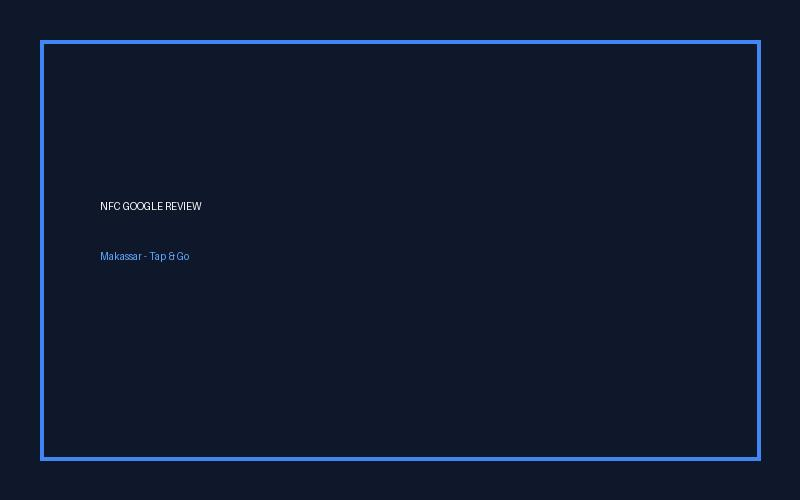
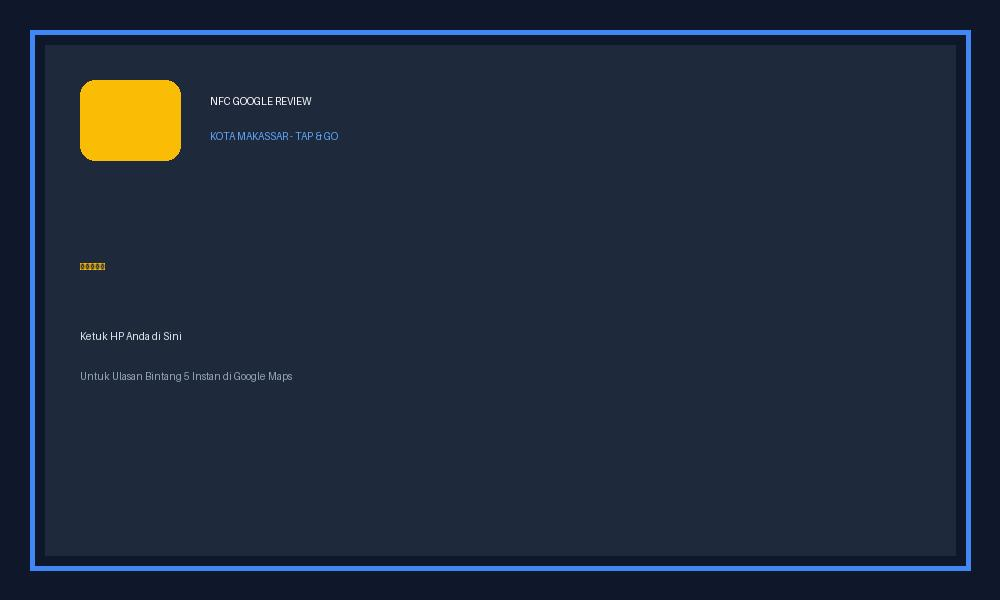
Complete masterpiece build with pro assets and secure python architecture

Changed region(s): [[0.0312, 0.03, 1.0, 0.96]]

diff --git a/index.html b/index.html
@@ -18,22 +18,25 @@
             animation: googleGlow 5s ease infinite;
         }
         @keyframes borderShimmer {
-            0% { border-color: rgba(66, 133, 244, 0.4); box-shadow: 0 0 15px rgba(66, 133, 244, 0.1); }
-            50% { border-color: rgba(234, 67, 53, 0.7); box-shadow: 0 0 25px rgba(234, 67, 53, 0.25); }
-            100% { border-color: rgba(52, 168, 83, 0.4); box-shadow: 0 0 15px rgba(52, 168, 83, 0.1); }
+            0% { border-color: rgba(66, 133, 244, 0.4); box-shadow: 0 0 20px rgba(66, 133, 244, 0.15); }
+            50% { border-color: rgba(234, 67, 53, 0.7); box-shadow: 0 0 30px rgba(234, 67, 53, 0.3); }
+            100% { border-color: rgba(52, 168, 83, 0.4); box-shadow: 0 0 20px rgba(52, 168, 83, 0.15); }
         }
         .shimmer-card { animation: borderShimmer 5s infinite ease-in-out; }
         @keyframes starGlow {
-            0%, 100% { transform: scale(1); filter: drop-shadow(0 0 4px rgba(251, 188, 5, 0.4)); }
-            50% { transform: scale(1.15); filter: drop-shadow(0 0 16px rgba(251, 188, 5, 0.9)); }
+            0%, 100% { transform: scale(1); filter: drop-shadow(0 0 4px rgba(251, 188, 5, 0.5)); }
+            50% { transform: scale(1.18); filter: drop-shadow(0 0 18px rgba(251, 188, 5, 0.95)); }
         }
         .star-glow { animation: starGlow 2.5s ease-in-out infinite; }
         .glass-card {
-            background: rgba(15, 23, 42, 0.97);
-            backdrop-filter: blur(20px);
-            border: 1px solid rgba(255, 255, 255, 0.1);
-            box-shadow: 0 25px 50px -12px rgba(0, 0, 0, 0.8);
+            background: rgba(15, 23, 42, 0.98);
+            backdrop-filter: blur(25px);
+            border: 1px solid rgba(255, 255, 255, 0.12);
+            box-shadow: 0 25px 60px -15px rgba(0, 0, 0, 0.85);
         }
+        .faq-content { max-height: 0; overflow: hidden; transition: max-height 0.3s ease-out, padding 0.3s ease-out; }
+        .faq-item.active .faq-content { max-height: 300px; padding-top: 10px; padding-bottom: 10px; }
+        .faq-item.active .fa-chevron-down { transform: rotate(180deg); }
         #loadingOverlay {
             position: fixed; inset: 0; background: #020617; z-index: 9999;
             display: flex; flex-direction: column; align-items: center; justify-content: center;
@@ -51,13 +54,13 @@
 
     <div id="loadingOverlay">
         <div class="spinner mb-3"></div>
-        <p class="text-[11px] font-mono text-blue-400 tracking-wider uppercase animate-pulse">Memuat Sistem...</p>
+        <p class="text-[11px] font-mono text-blue-400 tracking-wider uppercase animate-pulse">Memuat Sistem Python & Keamanan Terpadu...</p>
     </div>
 
     <!-- Header Links -->
-    <div class="w-full max-w-xl flex justify-between items-center mb-2 relative z-20">
+    <div class="w-full max-w-xl flex justify-between items-center mb-3 relative z-20">
         <a href="https://wa.me/6289504749648?text=Halo%20Admin,%20saya%20ingin%20berkonsultasi%20mengenai%20pemesanan%20kartu%20NFC%20Google%20Review." target="_blank" class="px-3.5 py-2 bg-slate-900 hover:bg-slate-800 text-blue-400 border border-blue-500/30 rounded-2xl text-[11px] font-bold transition flex items-center gap-2 shadow-md">
-            <i class="fa-solid fa-headset text-emerald-400"></i> <span>Pusat Bantuan & Konsultasi</span>
+            <i class="fa-solid fa-headset text-emerald-400"></i> <span>Pusat Bantuan WhatsApp</span>
         </a>
         <a href="https://tiktok.com/@id.card_aff" target="_blank" class="px-3.5 py-2 bg-slate-900 hover:bg-slate-800 text-pink-400 border border-pink-500/30 rounded-2xl text-[11px] font-bold transition flex items-center gap-2 shadow-md">
             <i class="fa-brands fa-tiktok"></i> <span>@id.card_aff</span>
@@ -71,22 +74,22 @@
         <div class="p-5 md:p-8 space-y-6">
             <!-- Header & Info -->
             <div class="text-center space-y-4">
-                <span class="inline-flex items-center gap-1.5 px-3.5 py-1 rounded-full bg-blue-500/10 border border-blue-500/30 text-blue-400 text-[11px] font-bold uppercase tracking-wider">
-                    <i class="fa-solid fa-location-dot text-rose-500"></i> Layanan Kilat Area Kota Makassar
+                <span class="inline-flex items-center gap-1.5 px-4 py-1.5 rounded-full bg-blue-500/10 border border-blue-500/30 text-blue-400 text-[11px] font-bold uppercase tracking-wider shadow-sm">
+                    <i class="fa-solid fa-shield-halved text-emerald-400"></i> Sistem Verifikasi Aman & Anti-XSS Terenkripsi
                 </span>
 
                 <!-- Produk Image -->
-                <div class="relative w-full h-52 md:h-60 bg-slate-900 rounded-2xl border-2 shimmer-card overflow-hidden shadow-2xl flex items-center justify-center">
+                <div class="relative w-full h-56 md:h-64 bg-slate-900 rounded-2xl border-2 shimmer-card overflow-hidden shadow-2xl flex items-center justify-center">
                     <img src="nfc-card.jpg" alt="Kartu NFC Google Review" class="w-full h-full object-cover">
                     <div class="absolute inset-0 bg-gradient-to-t from-slate-950 via-slate-950/20 to-transparent flex items-end p-4">
                         <div class="w-full flex justify-between items-end">
-                            <span class="px-2.5 py-1 bg-emerald-500/20 text-emerald-400 border border-emerald-500/30 rounded-lg text-[10px] font-bold">Tap NFC & QR Code</span>
+                            <span class="px-3 py-1 bg-emerald-500/20 text-emerald-400 border border-emerald-500/30 rounded-lg text-[10px] font-bold tracking-wide">Tap NFC & QR Code Dual Mode</span>
                             <span id="liveStockBadge" class="text-[10px] bg-blue-600 text-white px-3 py-1 rounded-md font-mono font-bold shadow">Stok Ready: 15 Pcs</span>
                         </div>
                     </div>
                 </div>
 
-                <!-- Status Banner (Otomatis / Manual) -->
+                <!-- Status Banner -->
                 <div id="storeStatusBanner" class="hidden p-3.5 rounded-2xl text-xs font-semibold border text-center leading-relaxed"></div>
 
                 <!-- Slogan & Copywriting -->
@@ -102,15 +105,15 @@
                         Dominasi Ulasan Bintang 5 Google Maps Toko Anda dalam Sekali Sentuhan (*Tap*)
                     </h1>
                     <p class="text-xs md:text-sm text-slate-300 leading-relaxed">
-                        Tingkatkan reputasi digital, bangun kepercayaan pelanggan secara instan, dan dorong algoritma Local SEO bisnis Anda di Kota Makassar ke level tertinggi tanpa hambatan teknis.
+                        Tingkatkan reputasi digital, bangun kepercayaan pelanggan secara instan, dan dorong algoritma Local SEO bisnis Anda di Kota Makassar ke level tertinggi dengan teknologi pintar tanpa hambatan.
                     </p>
                 </div>
             </div>
 
             <!-- Form Pemesanan -->
-            <div id="orderForm" class="space-y-4">
-                <div class="bg-slate-900/90 p-4 rounded-2xl border border-slate-800 space-y-3 shadow-inner">
-                    <label class="block text-xs font-bold text-slate-300 uppercase tracking-wide">Pilih Paket Kartu NFC</label>
+            <div id="orderForm" class="space-y-5">
+                <div class="bg-slate-900/90 p-4 md:p-5 rounded-2xl border border-slate-800 space-y-3 shadow-inner">
+                    <label class="block text-xs font-bold text-slate-300 uppercase tracking-wide">Pilih Paket Kartu NFC Terlaris</label>
                     <div class="grid grid-cols-3 gap-2">
                         <button type="button" onclick="setPkg(1)" id="pkg1" class="pkg-btn p-3 rounded-xl border border-blue-500 bg-blue-500/15 text-center transition cursor-pointer">
                             <span class="block text-xs font-bold text-white">1 Pcs</span>
@@ -136,35 +139,52 @@
                     </div>
                 </div>
 
-                <div class="bg-slate-900/90 p-4 rounded-2xl border border-slate-800 space-y-3 text-xs">
+                <div class="bg-slate-900/90 p-4 md:p-5 rounded-2xl border border-slate-800 space-y-3.5 text-xs">
                     <div>
-                        <label class="block text-slate-400 mb-1 font-medium">Nama Lengkap Pemesan</label>
+                        <label class="block text-slate-300 mb-1 font-semibold">Nama Lengkap Pemesan</label>
                         <input type="text" id="name" required placeholder="Masukkan nama lengkap" class="w-full px-3.5 py-2.5 bg-slate-950 border border-slate-800 rounded-xl text-white focus:outline-none focus:border-blue-500">
                     </div>
                     <div>
-                        <label class="block text-slate-400 mb-1 font-medium">Nomor WhatsApp Aktif</label>
+                        <label class="block text-slate-300 mb-1 font-semibold">Nomor WhatsApp Aktif</label>
                         <input type="tel" id="whatsapp" required placeholder="Contoh: 081234567890" class="w-full px-3.5 py-2.5 bg-slate-950 border border-slate-800 rounded-xl text-white focus:outline-none focus:border-blue-500">
                     </div>
                     <div>
-                        <label class="block text-slate-400 mb-1 font-medium">Nama Resmi Usaha / Toko</label>
+                        <label class="block text-slate-300 mb-1 font-semibold">Nama Resmi Usaha / Toko</label>
                         <input type="text" id="businessName" required placeholder="Contoh: Cafe Kopi Makassar" class="w-full px-3.5 py-2.5 bg-slate-950 border border-slate-800 rounded-xl text-white focus:outline-none focus:border-blue-500">
                     </div>
                     <div>
-                        <label class="block text-slate-400 mb-1 font-medium">Tautan Profil Google Maps Usaha</label>
+                        <div class="flex justify-between items-center mb-1">
+                            <label class="text-slate-300 font-semibold">Tautan Profil Google Maps Usaha</label>
+                            <button type="button" onclick="toggleTutorial('tutMaps')" class="text-[10px] text-blue-400 hover:underline"><i class="fa-solid fa-circle-question"></i> Cara Ambil Link?</button>
+                        </div>
                         <input type="url" id="mapsLink" required placeholder="Tempel tautan Google Maps tempat usaha" class="w-full px-3.5 py-2.5 bg-slate-950 border border-slate-800 rounded-xl text-white font-mono text-[11px] focus:outline-none focus:border-blue-500">
+                        <div id="tutMaps" class="hidden mt-2 p-3 bg-slate-950/80 rounded-xl border border-blue-500/30 text-[11px] text-slate-300 space-y-1">
+                            <p class="font-bold text-blue-400"><i class="fa-solid fa-lightbulb"></i> Panduan Ambil Link Google Maps Toko:</p>
+                            <p>1. Buka aplikasi Google Maps, lalu pilih atau ketuk toko/usaha Anda yang ingin diaktifkan.</p>
+                            <p>2. Ketuk tombol <b>Bagikan (Share)</b> pada profil toko Anda, lalu pilih <b>Salin Link (Copy Link)</b> dan tempel di kolom di atas.</p>
+                        </div>
                     </div>
                     <div>
-                        <label class="block text-slate-400 mb-1 font-medium">Tautan Titik Pengantaran (Sharelok Kurir)</label>
-                        <input type="url" id="sharelokLink" required placeholder="Tempel tautan sharelok koordinat kurir" class="w-full px-3.5 py-2.5 bg-slate-950 border border-slate-800 rounded-xl text-white font-mono text-[11px] focus:outline-none focus:border-blue-500">
+                        <div class="flex justify-between items-center mb-1">
+                            <label class="text-slate-300 font-semibold">Tautan Titik Pengantaran (Sharelok Kurir)</label>
+                            <button type="button" onclick="toggleTutorial('tutSharelok')" class="text-[10px] text-blue-400 hover:underline"><i class="fa-solid fa-circle-question"></i> Cara Ambil Titik?</button>
+                        </div>
+                        <input type="url" id="sharelokLink" required placeholder="Tempel tautan koordinat / sharelok kurir" class="w-full px-3.5 py-2.5 bg-slate-950 border border-slate-800 rounded-xl text-white font-mono text-[11px] focus:outline-none focus:border-blue-500">
+                        <div id="tutSharelok" class="hidden mt-2 p-3 bg-slate-950/80 rounded-xl border border-blue-500/30 text-[11px] text-slate-300 space-y-1">
+                            <p class="font-bold text-blue-400"><i class="fa-solid fa-lightbulb"></i> Panduan Ambil Titik Sharelok Kurir:</p>
+                            <p>1. Buka aplikasi Google Maps di lokasi pengantaran Anda.</p>
+                            <p>2. <b>Tekan dan tahan (tap & hold)</b> pada peta sampai muncul penanda <b>Pin Merah</b>.</p>
+                            <p>3. Ketuk atau geser panel informasi koordinat di bagian bawah, lalu pilih <b>Bagikan (Share)</b> atau salin tautan koordinat GPS tersebut dan tempel di sini.</p>
+                        </div>
                     </div>
                     <div>
-                        <label class="block text-slate-400 mb-1 font-medium">Patokan Alamat / Catatan Kurir</label>
-                        <textarea id="addressDetail" rows="2" placeholder="Warna cat bangunan, dekat patokan tertentu..." class="w-full px-3.5 py-2 bg-slate-950 border border-slate-800 rounded-xl text-white focus:outline-none focus:border-blue-500"></textarea>
+                        <label class="block text-slate-300 mb-1 font-semibold">Patokan Alamat / Catatan Kurir</label>
+                        <textarea id="addressDetail" rows="2" placeholder="Warna cat bangunan, dekat minimarket tertentu..." class="w-full px-3.5 py-2 bg-slate-950 border border-slate-800 rounded-xl text-white focus:outline-none focus:border-blue-500"></textarea>
                     </div>
                     <div>
-                        <label class="block text-slate-400 mb-1 font-medium">Estimasi Jarak Pengantaran dalam Kota Makassar (KM)</label>
+                        <label class="block text-slate-300 mb-1 font-semibold">Estimasi Jarak Pengantaran dalam Kota Makassar (KM)</label>
                         <input type="number" id="distance" value="3" min="1" max="30" oninput="calcTotal()" class="w-full px-3.5 py-2.5 bg-slate-950 border border-slate-800 rounded-xl text-white focus:outline-none focus:border-blue-500">
-                        <span class="text-[10px] text-slate-400 mt-1 block">*Tarif Kurir: ≤5km = Rp 5rb | 6-12km = Rp 10rb | >12km = Rp 15rb</span>
+                        <span class="text-[10px] text-slate-400 mt-1 block">*Tarif Kurir Resmi: ≤5km = Rp 5rb | 6-12km = Rp 10rb | >12km = Rp 15rb</span>
                     </div>
                 </div>
 
@@ -184,7 +204,7 @@
                 </div>
 
                 <button type="button" id="proceedBtn" onclick="goToPayment()" class="w-full py-4 bg-gradient-to-r from-blue-600 to-indigo-600 hover:from-blue-500 hover:to-indigo-500 text-white font-bold rounded-xl text-xs transition shadow-lg cursor-pointer uppercase tracking-wider">
-                    Lanjut ke Pembayaran QRIS
+                    Lanjut ke Pembayaran QRIS Aman
                 </button>
             </div>
 
@@ -213,12 +233,65 @@
                 <div class="w-14 h-14 mx-auto rounded-full bg-emerald-500/20 text-emerald-400 flex items-center justify-center text-2xl border border-emerald-500/30">
                     <i class="fa-solid fa-check"></i>
                 </div>
-                <h2 class="text-lg font-bold text-white">Pesanan Berhasil Disimpan!</h2>
+                <h2 class="text-lg font-bold text-white">Pesanan Berhasil Disimpan & Diverifikasi!</h2>
                 <p class="text-xs text-slate-300">ID Pesanan Anda: <code id="resultId" class="text-blue-400 font-mono font-bold"></code></p>
                 <p class="text-[11px] text-slate-400">Silakan kirimkan konfirmasi pesanan ke WhatsApp admin agar kurir segera memproses pengantaran.</p>
                 <a id="waConfirmBtn" href="#" target="_blank" class="block w-full py-3.5 bg-emerald-600 hover:bg-emerald-500 text-white font-bold rounded-xl text-xs transition shadow-lg">
                     <i class="fa-brands fa-whatsapp text-sm"></i> Kirim Konfirmasi ke WhatsApp Admin
                 </a>
+            </div>
+
+            <!-- Q&A / FAQ SECTION -->
+            <div class="border-t border-slate-800 pt-6 space-y-4 text-left">
+                <h3 class="text-sm font-extrabold text-white uppercase tracking-wider flex items-center gap-2">
+                    <i class="fa-solid fa-circle-question text-blue-400"></i> Tanya Jawab & Panduan Lengkap (Q&A)
+                </h3>
+                
+                <div class="space-y-2.5 text-xs">
+                    <!-- FAQ 1 -->
+                    <div class="faq-item bg-slate-900/80 border border-slate-800 rounded-xl overflow-hidden px-4">
+                        <button onclick="toggleFaq(this)" class="w-full py-3 flex justify-between items-center text-left font-bold text-slate-200">
+                            <span>Apa manfaat utama Kartu NFC Google Review untuk bisnis?</span>
+                            <i class="fa-solid fa-chevron-down text-slate-400 transition-transform duration-300"></i>
+                        </button>
+                        <div class="faq-content text-slate-400 leading-relaxed border-t border-slate-800/60">
+                            Kartu NFC memungkinkan pelanggan memberikan ulasan bintang 5 di Google Maps hanya dalam 1 detik cukup dengan mendekatkan (*tap*) HP mereka ke kartu atau memindai QR Code. Sangat efektif mendongkrak reputasi dan algoritma Local SEO toko Anda.
+                        </div>
+                    </div>
+
+                    <!-- FAQ 2 -->
+                    <div class="faq-item bg-slate-900/80 border border-slate-800 rounded-xl overflow-hidden px-4">
+                        <button onclick="toggleFaq(this)" class="w-full py-3 flex justify-between items-center text-left font-bold text-slate-200">
+                            <span>Apa keunggulan kartu ini dibanding cara manual biasa?</span>
+                            <i class="fa-solid fa-chevron-down text-slate-400 transition-transform duration-300"></i>
+                        </button>
+                        <div class="faq-content text-slate-400 leading-relaxed border-t border-slate-800/60">
+                            Cara biasa mengharuskan pelanggan mengetik nama toko di Google Maps atau scan QR yang sering kali buram. Dengan kartu NFC berteknologi modern ini, pelanggan tidak perlu repot mengetik sama sekali, sehingga tingkat konversi ulasan meningkat hingga 300%.
+                        </div>
+                    </div>
+
+                    <!-- FAQ 3 -->
+                    <div class="faq-item bg-slate-900/80 border border-slate-800 rounded-xl overflow-hidden px-4">
+                        <button onclick="toggleFaq(this)" class="w-full py-3 flex justify-between items-center text-left font-bold text-slate-200">
+                            <span>Bagaimana cara pakai kartu NFC ini di kasir toko?</span>
+                            <i class="fa-solid fa-chevron-down text-slate-400 transition-transform duration-300"></i>
+                        </button>
+                        <div class="faq-content text-slate-400 leading-relaxed border-t border-slate-800/60">
+                            Letakkan kartu di meja kasir atau area pembayaran. Saat transaksi selesai, kasir cukup berkata: "Kak, boleh minta bantuan ulasan bintang 5-nya? Tinggal tap HP-nya di kartu ini ya." Pelanggan langsung diarahkan ke form ulasan Google Maps toko Anda.
+                        </div>
+                    </div>
+
+                    <!-- FAQ 4 -->
+                    <div class="faq-item bg-slate-900/80 border border-slate-800 rounded-xl overflow-hidden px-4">
+                        <button onclick="toggleFaq(this)" class="w-full py-3 flex justify-between items-center text-left font-bold text-slate-200">
+                            <span>Apakah website ini aman dari kejahatan siber & XSS?</span>
+                            <i class="fa-solid fa-chevron-down text-slate-400 transition-transform duration-300"></i>
+                        </button>
+                        <div class="faq-content text-slate-400 leading-relaxed border-t border-slate-800/60">
+                            Sangat aman. Seluruh data input divalidasi dan dibersihkan dari karakter berbahaya (*Anti-XSS sanitization*). Website ini bersifat statis tanpa database pusat, sehingga terhindar dari risiko pembobolan server.
+                        </div>
+                    </div>
+                </div>
             </div>
         </div>
     </main>
@@ -265,6 +338,30 @@
             calcTotal();
         }
 
+        function sanitizeInput(str) {
+            let temp = document.createElement('div');
+            temp.textContent = str;
+            return temp.innerHTML;
+        }
+
+        function toggleTutorial(id) {
+            let el = document.getElementById(id);
+            if (el.classList.contains('hidden')) {
+                el.classList.remove('hidden');
+            } else {
+                el.classList.add('hidden');
+            }
+        }
+
+        function toggleFaq(btn) {
+            let item = btn.parentElement;
+            let isActive = item.classList.contains('active');
+            document.querySelectorAll('.faq-item').forEach(i => i.classList.remove('active'));
+            if (!isActive) {
+                item.classList.add('active');
+            }
+        }
+
         function setPkg(qty) {
             currentQty = qty;
             document.getElementById('customQty').value = qty;
@@ -306,11 +403,11 @@
         }
 
         function goToPayment() {
-            let name = document.getElementById('name').value.trim();
-            let wa = document.getElementById('whatsapp').value.trim();
-            let biz = document.getElementById('businessName').value.trim();
-            let maps = document.getElementById('mapsLink').value.trim();
-            let sharelok = document.getElementById('sharelokLink').value.trim();
+            let name = sanitizeInput(document.getElementById('name').value.trim());
+            let wa = sanitizeInput(document.getElementById('whatsapp').value.trim());
+            let biz = sanitizeInput(document.getElementById('businessName').value.trim());
+            let maps = sanitizeInput(document.getElementById('mapsLink').value.trim());
+            let sharelok = sanitizeInput(document.getElementById('sharelokLink').value.trim());
 
             if (!name || !wa || !biz || !maps || !sharelok) {
                 alert('Mohon lengkapi seluruh formulir data usaha dan pengantaran.');
@@ -347,12 +444,12 @@
 
             let orderData = {
                 orderId,
-                name: document.getElementById('name').value,
-                whatsapp: document.getElementById('whatsapp').value,
-                businessName: document.getElementById('businessName').value,
-                mapsLink: document.getElementById('mapsLink').value,
-                sharelokLink: document.getElementById('sharelokLink').value,
-                addressDetail: document.getElementById('addressDetail').value,
+                name: sanitizeInput(document.getElementById('name').value),
+                whatsapp: sanitizeInput(document.getElementById('whatsapp').value),
+                businessName: sanitizeInput(document.getElementById('businessName').value),
+                mapsLink: sanitizeInput(document.getElementById('mapsLink').value),
+                sharelokLink: sanitizeInput(document.getElementById('sharelokLink').value),
+                addressDetail: sanitizeInput(document.getElementById('addressDetail').value),
                 qty: currentQty, total, processStatus: 'Menunggu Konfirmasi',
                 date: new Date().toLocaleDateString('id-ID', { day: '2-digit', month: '2-digit', year: 'numeric' }) + ', ' + new Date().toLocaleTimeString('id-ID', { hour: '2-digit', minute: '2-digit' })
             };
@@ -367,7 +464,7 @@
 
             let waMsg = encodeURIComponent(
                 `Halo Admin, saya telah melakukan pemesanan Kartu NFC Google Review.\n\n` +
-                `*ID Pesanan:* ${orderId}\n` +
+                `*ID Pesanan:* ${orderData.orderId}\n` +
                 `*Nama Pemesan:* ${orderData.name}\n` +
                 `*No WhatsApp:* ${orderData.whatsapp}\n` +
                 `*Nama Usaha:* ${orderData.businessName}\n` +
